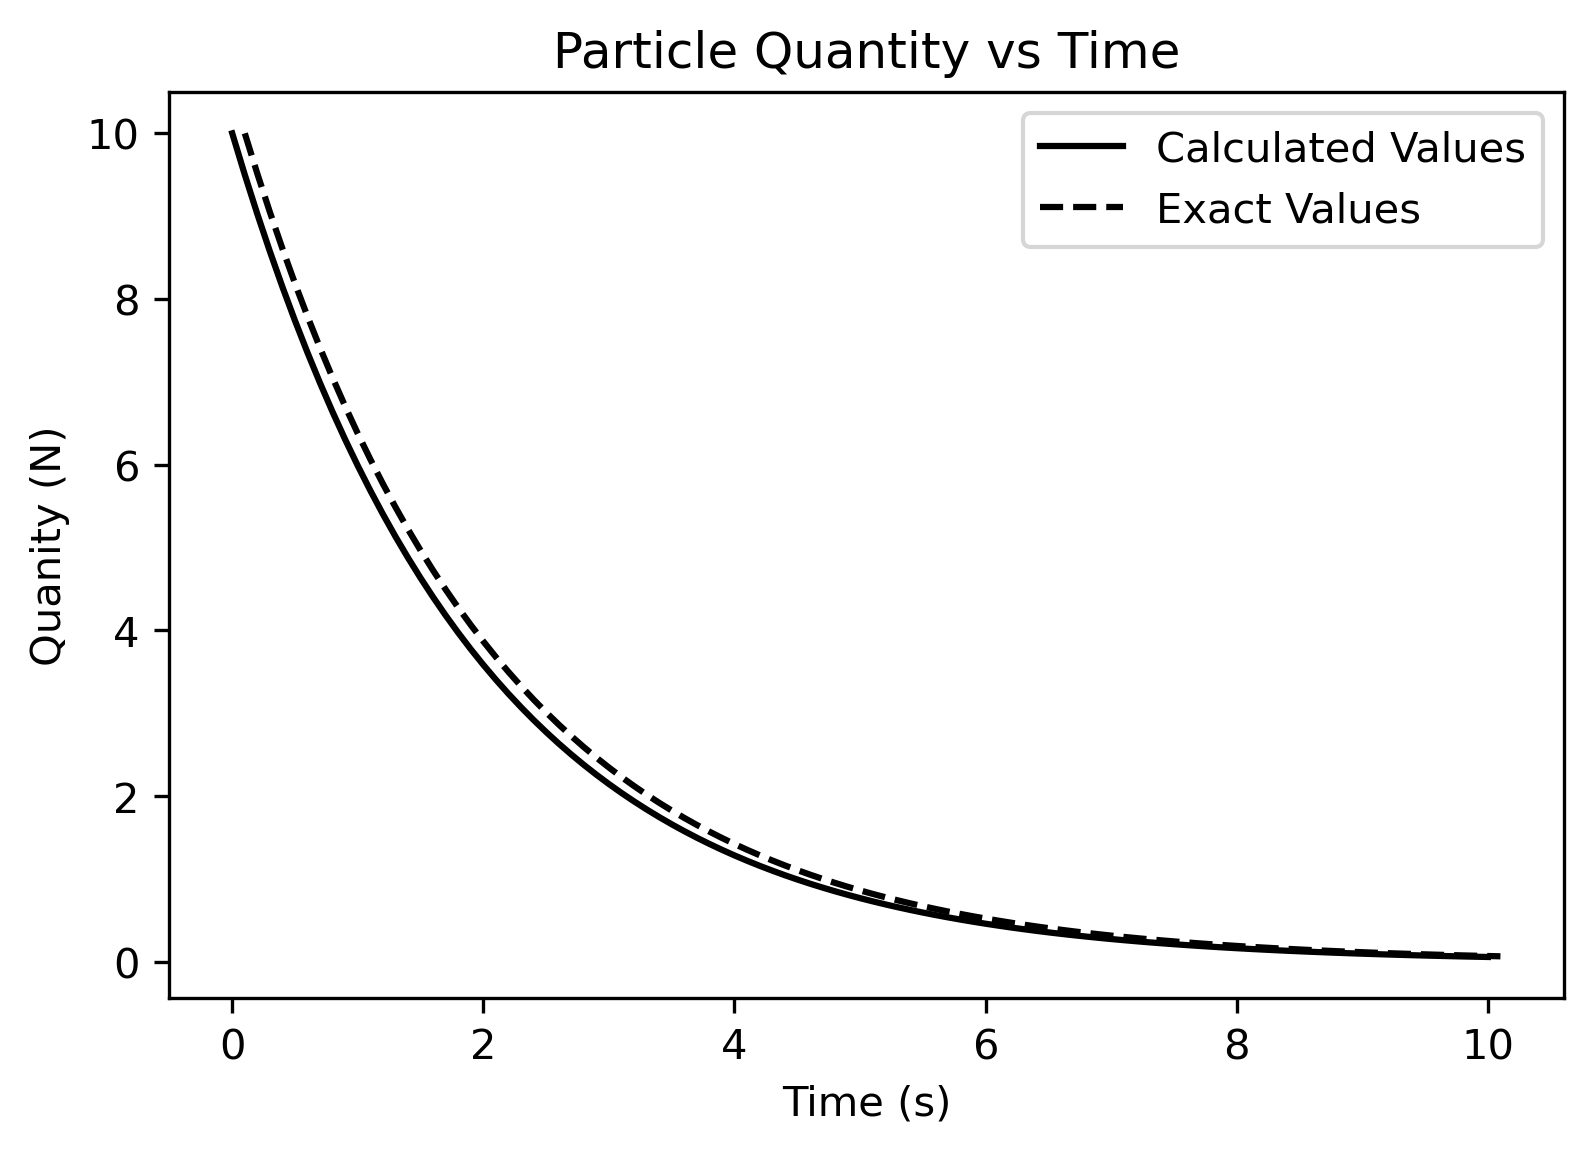
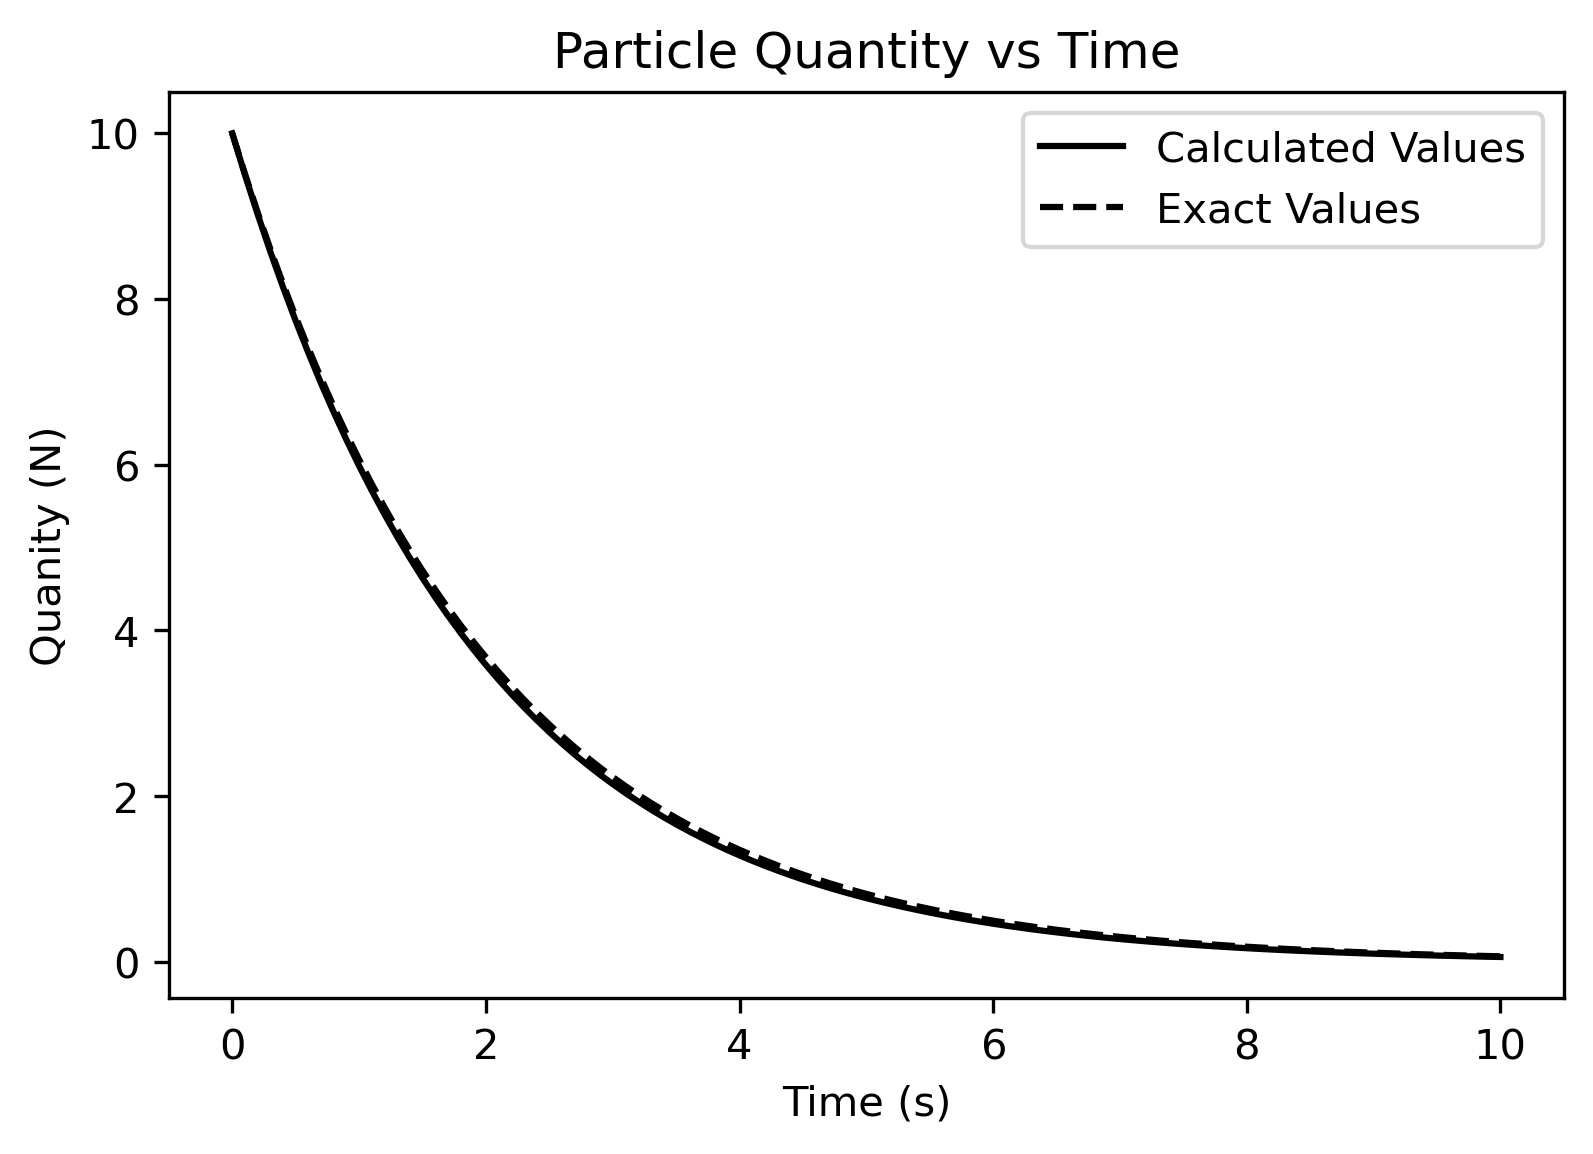
Experement 1 complete version

diff --git a/Experement_1.py b/Experement_1.py
@@ -9,9 +9,9 @@ import numpy as np
 
 plt.rcParams['figure.dpi'] = 300
 
-timestep = 0.01 #change in t
+timestep = 0.5 #change in t
 max_time = 10 #tmax
-tau = 3.0 ##lifetime for decay/time constant
+tau = 2.0 ##lifetime for decay/time constant
 
 time0 = 0 ##t
 quantity0 = 10 ## N0
@@ -28,6 +28,7 @@ quantc = quantity0 #quantity curreent (N)
 while not abs(timec-max_time) < timestep/2:
     quantc = (quantc-((quantc*timestep)/tau))
     timec = timec + timestep
+    
     time.append(timec)
     quanity.append(quantc)
 
@@ -41,11 +42,12 @@ quanityt = []
 tcurrent = time0
 Ncurrent = quantity0
 
-while tcurrent < max_time:
+while tcurrent <= max_time:
     Ncurrent = (quantity0*(np.exp((-tcurrent/tau))))
-    tcurrent = tcurrent + timestep
     timet.append(tcurrent)
     quanityt.append(Ncurrent)
+    tcurrent = tcurrent + timestep
+
 
 plt.plot(time, quanity, "k-", label="Calculated Values")
 plt.plot(timet, quanityt, "k--", label="Exact Values")
